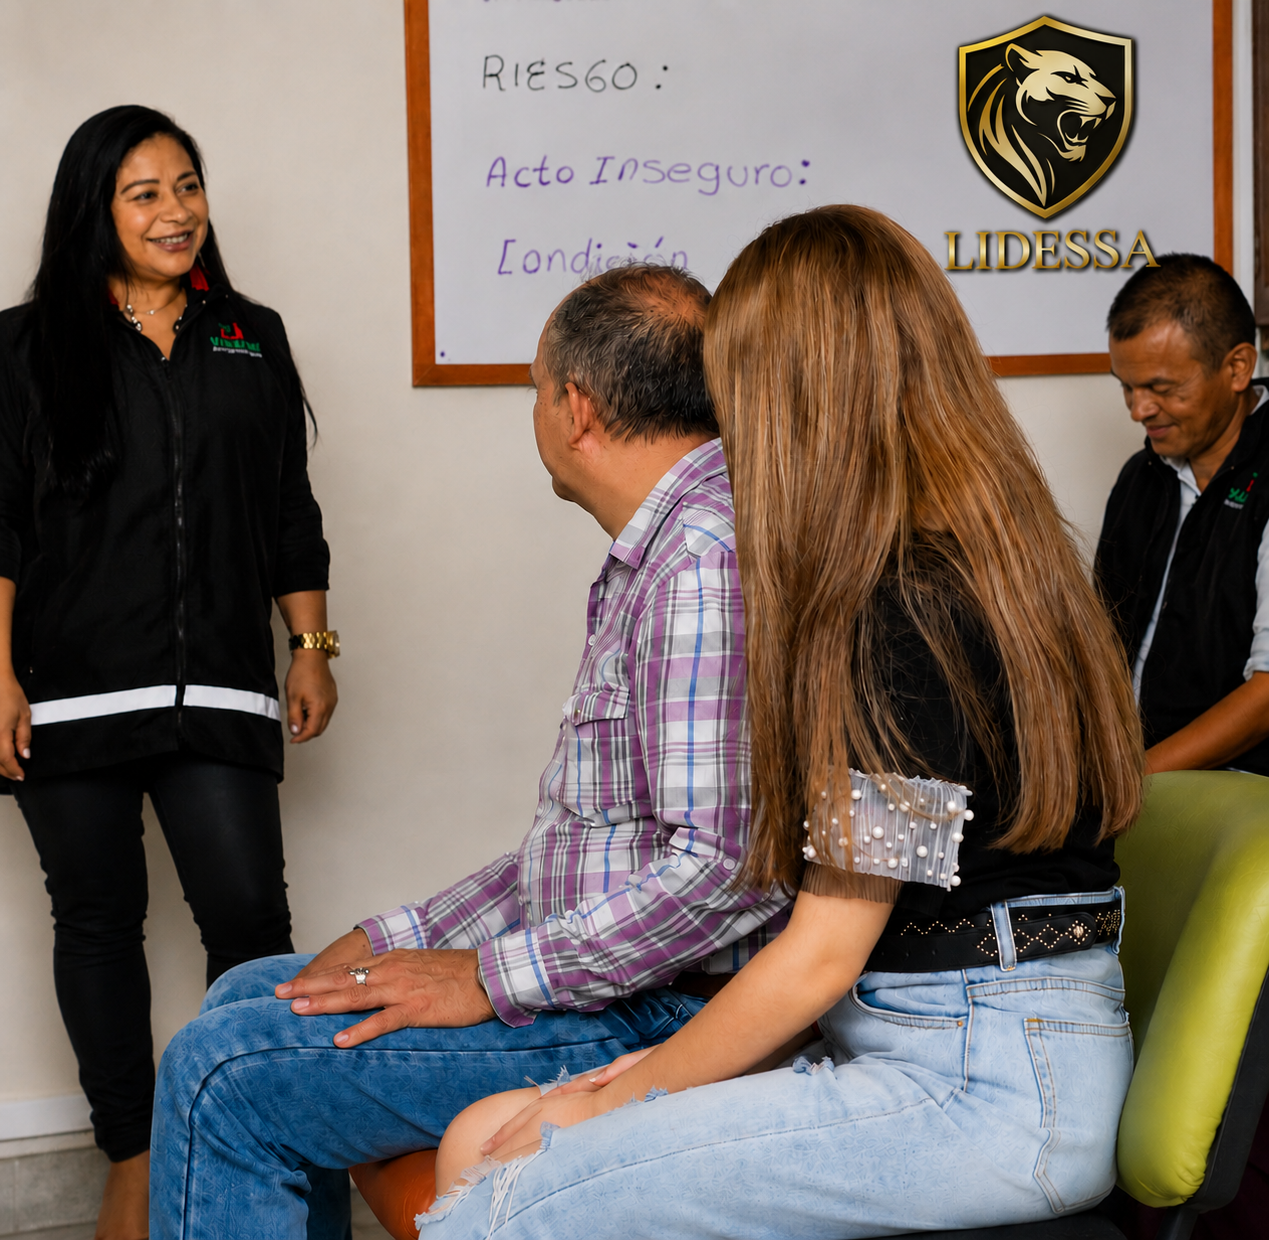
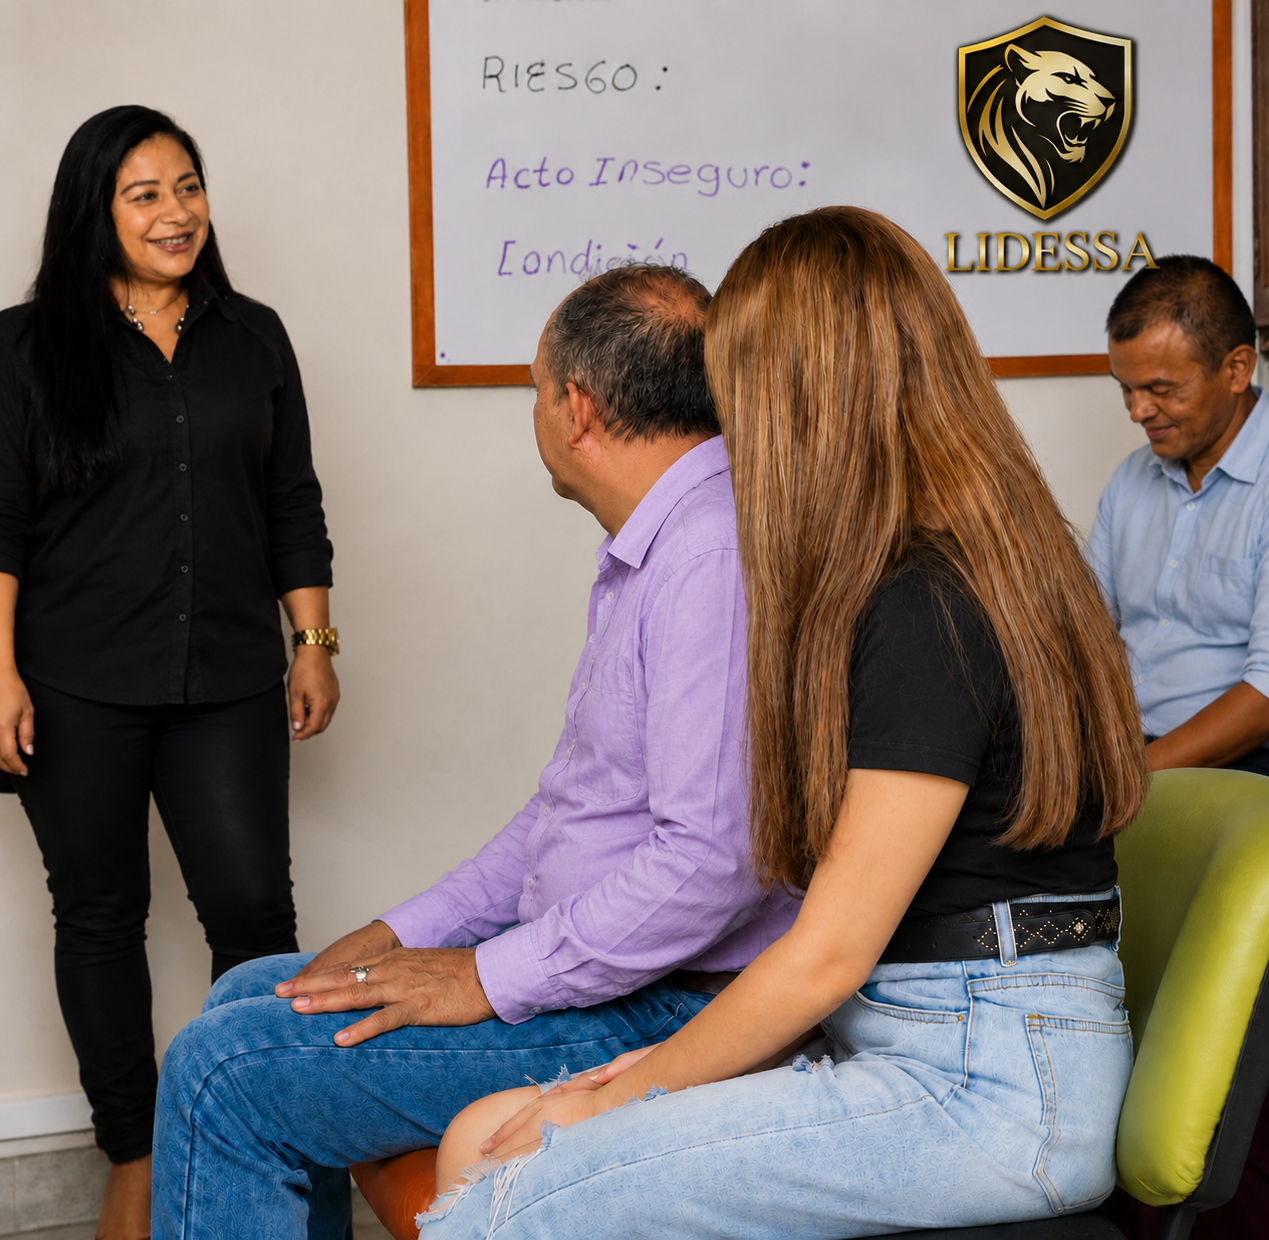
Agrega historial de pedidos y pule tarjetas de V2 Suministros
Historial de pedidos: boton dedicado en el panel admin que separa
pedidos completados/rechazados de los activos, con su propio filtro y
contador.

Catalogo del cliente: revierte el diseno de tarjeta al estilo simple
(sin recuadro redondeado ni overlay de "ver detalle" al pasar el
mouse), mantiene el badge de disponibilidad con mejor diseno (vidrio
esmerilado + punto de color) y un resplandor difuminado en los bordes
(dorado en oscuro, azul en claro). Corrige el popup de detalle del
producto para que el panel de texto y la imagen tengan la misma altura
en escritorio, y que en celular el nombre y precio sean visibles sin
necesidad de deslizar.

diff --git a/src/features/supplies/pages/ClientStore.jsx b/src/features/supplies/pages/ClientStore.jsx
@@ -11,11 +11,16 @@ import Avatar from '@/shared/components/Avatar'
 import { formatAmountInput, parseAmountInput } from '@/shared/lib/money'
 import {
   ShoppingCart, Plus, Minus, Trash, Check, X, Bell, ImageIcon, Package, LogOut, Search, ShieldCheck,
-  Truck, CreditCard, Headset, ChevronDown, ChevronRight, User, Eye, MessageCircle, AlertTriangle,
+  Truck, CreditCard, Headset, ChevronDown, ChevronRight, User, MessageCircle, AlertTriangle,
 } from '@/shared/components/Icons'
 
 function formatCOP(value) {
   return value.toLocaleString('es-CO', { style: 'currency', currency: 'COP', maximumFractionDigits: 0 })
+}
+
+function stepDateTime(dateStr) {
+  if (!dateStr) return ''
+  return new Date(dateStr).toLocaleString('es-CO', { day: '2-digit', month: 'short', hour: 'numeric', minute: '2-digit' })
 }
 
 function relativeTime(dateStr) {
@@ -61,31 +66,45 @@ function StatusBadge({ status }) {
 }
 
 function StockBadge({ stock }) {
-  if (stock <= 0) return <span className="text-[11px] font-bold uppercase tracking-wide px-2 py-1 rounded-md" style={{ backgroundColor: 'rgba(15,23,42,0.8)', color: 'white' }}>Agotado</span>
-  if (stock <= 5) return <span className="text-[11px] font-bold uppercase tracking-wide px-2 py-1 rounded-md" style={{ backgroundColor: '#d97706', color: 'white' }}>Últimas {stock} unid.</span>
-  return <span className="text-[11px] font-bold uppercase tracking-wide px-2 py-1 rounded-md" style={{ backgroundColor: 'rgba(22,163,74,0.92)', color: 'white' }}>Disponible</span>
+  const info = stock <= 0
+    ? { label: 'Agotado', color: '#f87171' }
+    : stock <= 5
+    ? { label: `Últimas ${stock} unid.`, color: '#fbbf24' }
+    : { label: 'Disponible', color: '#4ade80' }
+  return (
+    <span className="inline-flex items-center gap-1.5 text-[11px] font-bold uppercase tracking-wide px-2.5 py-1.5 rounded-full"
+      style={{ backgroundColor: 'rgba(7,20,38,0.6)', backdropFilter: 'blur(6px)', color: 'white', boxShadow: '0 2px 10px rgba(0,0,0,0.3)' }}>
+      <span style={{ width: 6, height: 6, borderRadius: '50%', backgroundColor: info.color, boxShadow: `0 0 6px ${info.color}` }} />
+      {info.label}
+    </span>
+  )
 }
 
-// Línea de progreso del pedido (Recibido → Confirmado → Enviado → Entregado).
-function OrderProgress({ status }) {
+// Línea de progreso del pedido (Recibido → Confirmado → Enviado → Entregado),
+// con la fecha y hora en que ocurrió cada paso ya cumplido (statusHistory).
+function OrderProgress({ status, history = [] }) {
   if (status === 'rejected') return null
   const current = ORDER_STEPS.findIndex(s => s.status === status)
   return (
-    <div className="flex items-center">
+    <div className="flex items-start">
       {ORDER_STEPS.map((step, i) => {
         const done = i <= current
+        const entry = history.find(h => h.status === step.status)
         return (
-          <div key={step.status} className="flex items-center flex-1 last:flex-none">
-            <div className="flex flex-col items-center gap-1">
-              <span className="flex items-center justify-center rounded-full text-white"
+          <div key={step.status} className="flex flex-col items-center flex-1 last:flex-none" style={{ minWidth: 0 }}>
+            <div className="flex items-center w-full">
+              <span className="flex items-center justify-center rounded-full text-white shrink-0"
                 style={{ width: 22, height: 22, backgroundColor: done ? '#005187' : 'var(--muted)', border: done ? 'none' : '1px solid var(--border)' }}>
                 {done ? <Check size={12} strokeWidth={3} /> : <span style={{ width: 6, height: 6, borderRadius: '50%', backgroundColor: 'var(--border)' }} />}
               </span>
-              <span className="text-[10px] font-semibold whitespace-nowrap" style={{ color: done ? 'var(--foreground)' : 'var(--muted-foreground)' }}>{step.label}</span>
+              {i < ORDER_STEPS.length - 1 && (
+                <span className="flex-1 h-0.5 mx-1.5 rounded-full" style={{ backgroundColor: i < current ? '#005187' : 'var(--border)' }} />
+              )}
             </div>
-            {i < ORDER_STEPS.length - 1 && (
-              <span className="flex-1 h-0.5 mx-1.5 mb-4 rounded-full" style={{ backgroundColor: i < current ? '#005187' : 'var(--border)' }} />
-            )}
+            <span className="text-[10px] font-semibold whitespace-nowrap mt-1" style={{ color: done ? 'var(--foreground)' : 'var(--muted-foreground)' }}>{step.label}</span>
+            <span className="text-[9px] whitespace-nowrap" style={{ color: 'var(--muted-foreground)' }}>
+              {done && entry ? stepDateTime(entry.date) : ' '}
+            </span>
           </div>
         )
       })}
@@ -485,46 +504,36 @@ export default function ClientStore({ theme, setTheme }) {
                       <button onClick={clearFilters} className="text-xs font-bold px-4 py-2 rounded-lg text-white" style={{ backgroundColor: '#005187' }}>Limpiar filtros</button>
                     </div>
                   ) : (
-                    <div className="grid sm:grid-cols-2 lg:grid-cols-3 xl:grid-cols-4 gap-5 pb-8">
-                      {sortedProducts.map(p => {
-                        const inCart = supplies.cart.find(it => it.productId === p.id)
-                        return (
-                          <article key={p.id}
-                            className="group rounded-2xl overflow-hidden flex flex-col transition-all duration-200 hover:-translate-y-1"
-                            style={{ backgroundColor: 'var(--supplies-surface)', border: '1px solid var(--border)', boxShadow: '0 1px 3px rgba(7,20,38,0.04)' }}
-                            onMouseEnter={e => e.currentTarget.style.boxShadow = '0 14px 30px rgba(7,20,38,0.10)'}
-                            onMouseLeave={e => e.currentTarget.style.boxShadow = '0 1px 3px rgba(7,20,38,0.04)'}>
-                            <button onClick={() => setDetailProduct(p)} className="relative block w-full overflow-hidden"
-                              style={{ aspectRatio: '4 / 3', backgroundColor: 'var(--muted)' }} aria-label={`Ver detalle de ${p.name}`}>
-                              {p.image ? (
-                                <img src={p.image} alt={p.name} className="w-full h-full object-cover transition-transform duration-500 group-hover:scale-105" />
-                              ) : (
-                                <div className="w-full h-full flex items-center justify-center" style={{ color: 'var(--muted-foreground)' }}><ImageIcon size={32} /></div>
-                              )}
-                              <span className="absolute top-3 left-3"><StockBadge stock={p.stock} /></span>
-                              <span className="absolute bottom-3 right-3 inline-flex items-center gap-1 text-xs font-semibold px-2.5 py-1.5 rounded-lg opacity-0 group-hover:opacity-100 transition-opacity"
-                                style={{ backgroundColor: 'rgba(255,255,255,0.95)', color: '#071426' }}>
-                                <Eye size={13} /> Ver detalle
-                              </span>
-                            </button>
-                            <div className="p-4 flex flex-col flex-1">
-                              <h3 className="text-sm font-bold leading-snug mb-1" style={{ color: 'var(--foreground)' }}>{p.name}</h3>
-                              <p className="text-xs leading-relaxed mb-4 line-clamp-2" style={{ color: 'var(--muted-foreground)' }}>{p.description}</p>
-                              <div className="mt-auto flex items-end justify-between gap-3">
-                                <div>
-                                  <p className="text-[11px] uppercase tracking-wide" style={{ color: 'var(--muted-foreground)' }}>Precio</p>
-                                  <p className="text-lg font-black leading-tight" style={{ color: 'var(--foreground)' }}>{formatCOP(p.price)}</p>
-                                </div>
-                                <button onClick={() => handleAddToCart(p)} disabled={p.stock <= 0}
-                                  className="inline-flex items-center gap-1.5 px-3.5 py-2.5 rounded-lg text-xs font-bold text-white transition-opacity hover:opacity-90 disabled:opacity-40 disabled:cursor-not-allowed"
-                                  style={{ backgroundColor: '#005187' }}>
-                                  {p.stock <= 0 ? 'Agotado' : <><Plus size={13} /> {inCart ? `Agregar (${inCart.qty})` : 'Agregar'}</>}
-                                </button>
-                              </div>
-                            </div>
-                          </article>
-                        )
-                      })}
+                    <div className="grid sm:grid-cols-2 lg:grid-cols-3 xl:grid-cols-4 gap-6 pb-16">
+                      {sortedProducts.map(p => (
+                        <div key={p.id}>
+                          <button
+                            onClick={() => setDetailProduct(p)}
+                            className="relative overflow-hidden mb-4 group block w-full text-left"
+                            style={{ aspectRatio: '1 / 1', backgroundColor: 'var(--muted)', boxShadow: '0 0 0 1px var(--border), 0 0 26px 1px var(--card-glow)' }}
+                            aria-label={`Ver detalle de ${p.name}`}
+                          >
+                            {p.image ? (
+                              <img src={p.image} alt={p.name} className="w-full h-full object-cover transition-transform duration-300 group-hover:scale-105" />
+                            ) : (
+                              <div className="w-full h-full flex items-center justify-center" style={{ color: 'var(--muted-foreground)' }}><ImageIcon size={32} /></div>
+                            )}
+                            <span className="absolute top-3 left-3"><StockBadge stock={p.stock} /></span>
+                          </button>
+                          <p className="text-sm font-semibold" style={{ color: 'var(--foreground)' }}>{p.name}</p>
+                          <p className="text-sm font-bold mb-3" style={{ color: 'var(--primary)' }}>{formatCOP(p.price)}</p>
+                          <button
+                            onClick={() => handleAddToCart(p)}
+                            disabled={p.stock <= 0}
+                            className="w-full py-2.5 text-xs font-bold uppercase tracking-wide transition-colors disabled:opacity-40"
+                            style={{ border: '1px solid #005187', color: 'var(--primary)', backgroundColor: 'transparent' }}
+                            onMouseEnter={e => { if (p.stock > 0) { e.currentTarget.style.backgroundColor = '#005187'; e.currentTarget.style.color = 'white' } }}
+                            onMouseLeave={e => { e.currentTarget.style.backgroundColor = 'transparent'; e.currentTarget.style.color = '#005187' }}
+                          >
+                            {p.stock <= 0 ? 'Agotado' : 'Agregar al carrito'}
+                          </button>
+                        </div>
+                      ))}
                     </div>
                   )}
                 </>
@@ -599,7 +608,7 @@ export default function ClientStore({ theme, setTheme }) {
                         {o.status === 'rejected' ? (
                           <p className="text-xs font-semibold" style={{ color: '#dc2626' }}>Este pedido fue rechazado. Vea el detalle para conocer la causa.</p>
                         ) : (
-                          <OrderProgress status={o.status} />
+                          <OrderProgress status={o.status} history={o.statusHistory} />
                         )}
                       </button>
 
@@ -821,7 +830,7 @@ export default function ClientStore({ theme, setTheme }) {
               style={{ width: 34, height: 34, backgroundColor: 'var(--supplies-surface)', color: 'var(--foreground)', boxShadow: '0 2px 8px rgba(0,0,0,0.15)' }}>
               <X size={16} />
             </button>
-            <div className="relative" style={{ aspectRatio: '1 / 1', backgroundColor: 'var(--muted)' }}>
+            <div className="relative aspect-[4/3] md:aspect-auto max-h-[46vh] md:max-h-none md:h-full" style={{ backgroundColor: 'var(--muted)' }}>
               {detailProduct.image ? (
                 <img src={detailProduct.image} alt={detailProduct.name} className="w-full h-full object-cover" />
               ) : (

diff --git a/src/features/admin-dashboard/pages/AdminDashboard.jsx b/src/features/admin-dashboard/pages/AdminDashboard.jsx
@@ -42,7 +42,7 @@ import UserAccountDetailModal, { RoleBadge } from '../components/UserAccountDeta
 import AnimatedCounter from '@/shared/components/AnimatedCounter'
 import ThemeToggle from '@/shared/components/ThemeToggle'
 import { courseCardStyle } from '@/features/lms/utils/courseCard'
-import { BarChart2, Building, FileText, GraduationCap, Users, Clipboard, Sliders, Bell, User, AlertTriangle, Edit2, Plus, Send, BookOpen, Trash, Search, Eye, Lock, X, UserCog, ShieldCheck, IdCard, MessageCircle, Sparkle, Check, Inbox, Download, Mail, ClipboardCheck, Package, ShoppingCart, ImageIcon, ChevronDown } from '@/shared/components/Icons'
+import { BarChart2, Building, FileText, GraduationCap, Users, Clipboard, Sliders, Bell, User, AlertTriangle, Edit2, Plus, Send, BookOpen, Trash, Search, Eye, Lock, X, UserCog, ShieldCheck, IdCard, MessageCircle, Sparkle, Check, Inbox, Download, Mail, ClipboardCheck, Package, ShoppingCart, ImageIcon, ChevronDown, History } from '@/shared/components/Icons'
 import AccountSettings from '@/shared/components/AccountSettings'
 import Avatar from '@/shared/components/Avatar'
 import Toggle from '@/shared/components/Toggle'
@@ -2460,10 +2460,14 @@ export default function AdminDashboard({ theme, setTheme }) {
             const historialStatuses = ['rejected', 'completed']
             const statusCounts = supplies.orders.reduce((acc, o) => ({ ...acc, [o.status]: (acc[o.status] ?? 0) + 1 }), {})
             const activeCount = supplies.orders.filter(o => !historialStatuses.includes(o.status)).length
+            const historialCount = supplies.orders.filter(o => historialStatuses.includes(o.status)).length
+            const inHistorial = pedidosView === 'historial'
             const chips = [
               { id: 'activos', label: 'Activos', count: activeCount },
               { id: 'all', label: 'Todos', count: supplies.orders.length },
-              ...Object.entries(ORDER_STATUS).map(([id, s]) => ({ id, label: s.short, count: statusCounts[id] ?? 0, color: s.color })),
+              ...Object.entries(ORDER_STATUS)
+                .filter(([id]) => !historialStatuses.includes(id))
+                .map(([id, s]) => ({ id, label: s.short, count: statusCounts[id] ?? 0, color: s.color })),
             ]
             const q = ordersSearch.trim().toLowerCase()
             const visibleOrders = supplies.orders
@@ -2479,15 +2483,31 @@ export default function AdminDashboard({ theme, setTheme }) {
             return (
             <div style={{ animation: 'fadeUp 0.4s ease' }}>
               <div className="flex flex-wrap items-start justify-between gap-3 mb-1">
-                <h2 className="text-xl font-black" style={{ fontFamily: 'var(--font-display)', color: 'var(--foreground)' }}>Pedidos</h2>
-                <button onClick={() => setOrderModal({ mode: 'new' })}
-                  className="px-4 py-2.5 rounded-lg text-sm font-bold text-white flex items-center gap-1.5"
-                  style={{ backgroundColor: '#005187', boxShadow: '0 4px 14px rgba(0,81,135,0.25)' }}>
-                  <Plus size={14} /> Nuevo pedido
-                </button>
+                <h2 className="text-xl font-black" style={{ fontFamily: 'var(--font-display)', color: 'var(--foreground)' }}>
+                  {inHistorial ? 'Historial de pedidos' : 'Pedidos'}
+                </h2>
+                <div className="flex items-center gap-2">
+                  <button onClick={() => { setPedidosView(inHistorial ? 'activos' : 'historial'); setOrdersPage(1) }}
+                    className="px-4 py-2.5 rounded-lg text-sm font-bold flex items-center gap-1.5"
+                    style={inHistorial
+                      ? { backgroundColor: '#005187', color: 'white', boxShadow: '0 4px 14px rgba(0,81,135,0.25)' }
+                      : { border: '1px solid var(--border)', color: 'var(--foreground)' }}>
+                    <History size={14} /> {inHistorial ? 'Ver pedidos activos' : 'Historial de pedidos'}
+                    {!inHistorial && historialCount > 0 && (
+                      <span className="text-xs font-bold px-1.5 rounded-full" style={{ backgroundColor: 'var(--muted)', color: 'var(--muted-foreground)' }}>{historialCount}</span>
+                    )}
+                  </button>
+                  <button onClick={() => setOrderModal({ mode: 'new' })}
+                    className="px-4 py-2.5 rounded-lg text-sm font-bold text-white flex items-center gap-1.5"
+                    style={{ backgroundColor: '#005187', boxShadow: '0 4px 14px rgba(0,81,135,0.25)' }}>
+                    <Plus size={14} /> Nuevo pedido
+                  </button>
+                </div>
               </div>
               <p className="text-xs mb-5" style={{ color: 'var(--muted-foreground)' }}>
-                {supplies.orders.length} pedidos · {statusCounts.pending ?? 0} por revisar · Haga clic en un pedido para ver su detalle y gestionarlo.
+                {inHistorial
+                  ? `${historialCount} pedidos completados o rechazados · Haga clic en un pedido para ver su detalle.`
+                  : `${supplies.orders.length} pedidos · ${statusCounts.pending ?? 0} por revisar · Haga clic en un pedido para ver su detalle y gestionarlo.`}
               </p>
 
               <div className="flex flex-wrap items-center gap-3 mb-4">
@@ -2496,8 +2516,10 @@ export default function AdminDashboard({ theme, setTheme }) {
                   <input value={ordersSearch} onChange={e => { setOrdersSearch(e.target.value); setOrdersPage(1) }} placeholder="Buscar por cliente, correo o # pedido…"
                     className="text-sm outline-none bg-transparent flex-1 min-w-0" style={{ color: 'var(--foreground)' }} />
                 </div>
-                <FilterDropdown options={chips} value={pedidosView} defaultValue="activos"
-                  onChange={v => { setPedidosView(v); setOrdersPage(1) }} />
+                {!inHistorial && (
+                  <FilterDropdown options={chips} value={pedidosView} defaultValue="activos"
+                    onChange={v => { setPedidosView(v); setOrdersPage(1) }} />
+                )}
               </div>
 
               <div className="rounded-xl overflow-hidden" style={{ border: '1px solid var(--border)' }}>

diff --git a/src/shared/styles/index.css b/src/shared/styles/index.css
@@ -44,6 +44,9 @@
      — en modo oscuro usa el mismo azul marino de los heros de la marca en
      vez del --card genérico (gris-café, pensado para el resto del sitio). */
   --supplies-surface: #ffffff;
+  /* Resplandor difuminado detrás de las tarjetas de producto de Suministros
+     — azul en modo claro, dorado (el mismo acento de marca) en modo oscuro. */
+  --card-glow: rgba(0, 81, 135, 0.4);
   /* brand extras */
   --blue-light: #84b6f4;
   --blue-xlight: #c4dafa;
@@ -68,6 +71,7 @@
   --border: #454546;
   --ring: #84b6f4;
   --supplies-surface: #13223b;
+  --card-glow: rgba(232, 199, 102, 0.5);
 }
 
 * { box-sizing: border-box; }

diff --git a/src/shared/components/Icons.jsx b/src/shared/components/Icons.jsx
@@ -51,6 +51,7 @@ import {
   Minus as LucideMinus,
   LogOut as LucideLogOut,
   Truck as LucideTruck,
+  History as LucideHistory,
   CreditCard as LucideCreditCard,
   ChevronRight as LucideChevronRight,
   Headset as LucideHeadset,
@@ -113,3 +114,4 @@ export const Truck = withDefaultSize(LucideTruck)
 export const CreditCard = withDefaultSize(LucideCreditCard)
 export const ChevronRight = withDefaultSize(LucideChevronRight)
 export const Headset = withDefaultSize(LucideHeadset)
+export const History = withDefaultSize(LucideHistory)
